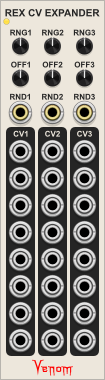
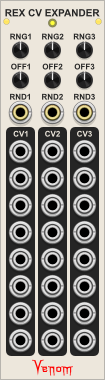
Allow Rhythm Explorer CV Expander on either side

diff --git a/src/RhythmExplorer.cpp b/src/RhythmExplorer.cpp
@@ -458,19 +458,32 @@ struct RhythmExplorer : VenomModule {
 
   void process(const ProcessArgs& args) override {
     Module* expanderCandidate = getRightExpander().module;
-    Module* expander = expanderCandidate 
-                    && !expanderCandidate->isBypassed() 
-                    && expanderCandidate->model == modelVenomREXCV 
-                     ? expanderCandidate 
-                     : NULL;
+    Module* rightExpander = expanderCandidate
+                         && !expanderCandidate->isBypassed()
+                         && expanderCandidate->model == modelVenomREXCV
+                         && !expanderCandidate->params[6].getValue()
+                          ? expanderCandidate
+                          : NULL;
+    expanderCandidate = getLeftExpander().module;
+    Module* leftExpander = expanderCandidate
+                        && !expanderCandidate->isBypassed()
+                        && expanderCandidate->model == modelVenomREXCV
+                        && expanderCandidate->params[6].getValue()
+                         ? expanderCandidate
+                         : NULL;
 
-
-    float cv1Range = expander ? expander->params[0].getValue()*2.32830629e-10f : 1.f,
-          cv1Offset = expander ? expander->params[1].getValue() : 0.f,
-          cv2Range = expander ? expander->params[2].getValue()*2.32830629e-10f : 1.f,
-          cv2Offset = expander ? expander->params[3].getValue() : 0.f,
-          cv3Range = expander ? expander->params[4].getValue()*2.32830629e-10f : 1.f,
-          cv3Offset = expander ? expander->params[5].getValue() : 0.f;
+    float rightCv1Range = rightExpander ? rightExpander->params[0].getValue()*2.32830629e-10f : 1.f,
+          rightCv1Offset = rightExpander ? rightExpander->params[1].getValue() : 0.f,
+          rightCv2Range = rightExpander ? rightExpander->params[2].getValue()*2.32830629e-10f : 1.f,
+          rightCv2Offset = rightExpander ? rightExpander->params[3].getValue() : 0.f,
+          rightCv3Range = rightExpander ? rightExpander->params[4].getValue()*2.32830629e-10f : 1.f,
+          rightCv3Offset = rightExpander ? rightExpander->params[5].getValue() : 0.f,
+          leftCv1Range = leftExpander ? leftExpander->params[0].getValue()*2.32830629e-10f : 1.f,
+          leftCv1Offset = leftExpander ? leftExpander->params[1].getValue() : 0.f,
+          leftCv2Range = leftExpander ? leftExpander->params[2].getValue()*2.32830629e-10f : 1.f,
+          leftCv2Offset = leftExpander ? leftExpander->params[3].getValue() : 0.f,
+          leftCv3Range = leftExpander ? leftExpander->params[4].getValue()*2.32830629e-10f : 1.f,
+          leftCv3Offset = leftExpander ? leftExpander->params[5].getValue() : 0.f;
 
     // Density polarity
     if ((params[POLAR_PARAM].getValue()==0) != isUni){
@@ -689,10 +702,14 @@ struct RhythmExplorer : VenomModule {
             0.f, 10.f
           );
 
-          float cv[3];
-          if (expander)
+          float leftCv[3],
+                rightCv[3];
+          if (leftExpander)
             for (int c=0; c<3; c++)
-              cv[c] = (rng() >> 32);
+              leftCv[c] = (rng() >> 32);
+          if (rightExpander)
+            for (int c=0; c<3; c++)
+              rightCv[c] = (rng() >> 32);
 
           if (rndFloat < threshold) {
             if ( !params[MUTE_CHANNEL_PARAM + si].getValue() && !params[MUTE_POLY_PARAM].getValue() && (channelMode == ALL_MODE || (channelMode == LINEAR_MODE && !linearChannelShadow) || (channelMode == OFFBEAT_MODE && !offbeatShadow))){
@@ -701,10 +718,15 @@ struct RhythmExplorer : VenomModule {
               outputs[GATE_POLY_OUTPUT].setVoltage(10.f, si);
               lights[DENSITY_LIGHT + si].setBrightness(1.f);
               densityLightOn[si] = true;
-              if (expander) {
-                expander->outputs[0+si].setVoltage(expander->inputs[0].getNormalPolyVoltage(cv[0]*cv1Range + cv1Offset, si));
-                expander->outputs[8+si].setVoltage(expander->inputs[1].getNormalPolyVoltage(cv[1]*cv2Range + cv2Offset, si));
-                expander->outputs[16+si].setVoltage(expander->inputs[2].getNormalPolyVoltage(cv[2]*cv3Range + cv3Offset, si));
+              if (leftExpander) {
+                leftExpander->outputs[0+si].setVoltage(leftExpander->inputs[0].getNormalPolyVoltage(leftCv[0]*leftCv1Range + leftCv1Offset, si));
+                leftExpander->outputs[8+si].setVoltage(leftExpander->inputs[1].getNormalPolyVoltage(leftCv[1]*leftCv2Range + leftCv2Offset, si));
+                leftExpander->outputs[16+si].setVoltage(leftExpander->inputs[2].getNormalPolyVoltage(leftCv[2]*leftCv3Range + leftCv3Offset, si));
+              }
+              if (rightExpander) {
+                rightExpander->outputs[0+si].setVoltage(rightExpander->inputs[0].getNormalPolyVoltage(rightCv[0]*rightCv1Range + rightCv1Offset, si));
+                rightExpander->outputs[8+si].setVoltage(rightExpander->inputs[1].getNormalPolyVoltage(rightCv[1]*rightCv2Range + rightCv2Offset, si));
+                rightExpander->outputs[16+si].setVoltage(rightExpander->inputs[2].getNormalPolyVoltage(rightCv[2]*rightCv3Range + rightCv3Offset, si));
               }
             }
             if (!params[MUTE_CHANNEL_PARAM + si].getValue() && !params[MUTE_POLY_PARAM].getValue() && (globalMode == ALL_MODE || (globalMode == LINEAR_MODE && !linearGlobalShadow) || (globalMode == OFFBEAT_MODE && !offbeatShadow))){
@@ -1015,10 +1037,15 @@ struct RhythmExplorerWidget : VenomWidget {
     ));
 
     Module* expander = module->rightExpander.module;
-    if (expander && expander->model == modelVenomREXCV)
-      menu->addChild(createMenuLabel("Rhythm Explorer CV expander connected"));
+    if (expander && expander->model == modelVenomREXCV && !expander->params[6].getValue())
+      menu->addChild(createMenuLabel("Right Rhythm Explorer CV expander connected"));
     else
-      menu->addChild(createMenuItem("Add Rhythm Explorer CV expander", "", [this](){addExpander(modelVenomREXCV,this);}));
+      menu->addChild(createMenuItem("Add right Rhythm Explorer CV expander", "", [this](){addExpander(modelVenomREXCV,this);}));
+    expander = module->leftExpander.module;
+    if (expander && expander->model == modelVenomREXCV && expander->params[6].getValue())
+      menu->addChild(createMenuLabel("Left Rhythm Explorer CV expander connected"));
+    else
+      menu->addChild(createMenuItem("Add left Rhythm Explorer CV expander", "", [this](){addExpander(modelVenomREXCV,this,true)->params[6].setValue(1);}));
 
     VenomWidget::appendContextMenu(menu);
   }

diff --git a/src/REXCV.cpp b/src/REXCV.cpp
@@ -15,6 +15,7 @@ struct REXCV : VenomModule {
     OFFSET2_PARAM,
     RANGE3_PARAM,
     OFFSET3_PARAM,
+    DIR_PARAM,
     PARAMS_LEN
   };
   enum InputId {
@@ -30,13 +31,21 @@ struct REXCV : VenomModule {
     OUTPUTS_LEN
   };
   enum LightId {
-    EXPAND_LIGHT,
+    ENUMS(LEFT_LIGHT,2),
+    ENUMS(RIGHT_LIGHT,2),
     LIGHTS_LEN
   };
 
   REXCV() {
     venomConfig(PARAMS_LEN, INPUTS_LEN, OUTPUTS_LEN, LIGHTS_LEN);
-    lights[EXPAND_LIGHT].setBrightness(false);
+    lights[LEFT_LIGHT].setBrightness(false);
+    lights[LEFT_LIGHT+1].setBrightness(false);
+    lights[RIGHT_LIGHT].setBrightness(false);
+    lights[RIGHT_LIGHT+1].setBrightness(false);
+
+    configLight(LEFT_LIGHT, "Left connection indicator");
+    configSwitch<FixedSwitchQuantity>(DIR_PARAM, 0.f, 1.f, 0.f, "Parent direction",{"Left","Right"});
+    configLight(RIGHT_LIGHT, "Left connection indicator");
 
     configParam(RANGE1_PARAM, 1.f, 10.f, 1.f, "Range1", " V");
     configParam(OFFSET1_PARAM, -10.f, 10.f, 0.f, "Offset1", " V");
@@ -62,31 +71,35 @@ struct REXCV : VenomModule {
     VenomModule::process(args);
   }
   
-  void onExpanderChange(const ExpanderChangeEvent& e) override {
-    if (!e.side) {
-      Module* left = getLeftExpander().module;
-      lights[EXPAND_LIGHT].setBrightness(left && left->model == modelVenomRhythmExplorer);
-    }  
-  }  
-
 };
 
 struct REXCVWidget : VenomWidget {
+
+  struct DirSwitch : GlowingSvgSwitchLockable {
+    DirSwitch() {
+      addFrame(Svg::load(asset::plugin(pluginInstance,"res/smallYellowButtonSwitch.svg")));
+      addFrame(Svg::load(asset::plugin(pluginInstance,"res/smallOrangeButtonSwitch.svg")));
+    }
+  };
+
   REXCVWidget(REXCV* module) {
     setModule(module);
     setVenomPanel("REXCV");
 
-    addChild(createLightCentered<SmallLight<YellowLight>>(Vec(6.5f, 21.5f), module, REXCV::EXPAND_LIGHT));
-    addParam(createLockableParamCentered<RoundTinyBlackKnobLockable>(Vec(20.5f, 46.f), module, REXCV::RANGE1_PARAM));
-    addParam(createLockableParamCentered<RoundTinyBlackKnobLockable>(Vec(20.5f, 78.f), module, REXCV::OFFSET1_PARAM));
+    addChild(createLightCentered<SmallLight<YellowRedLight<>>>(Vec(6.5f, 21.5f), module, REXCV::LEFT_LIGHT));
+    addParam(createLockableParamCentered<DirSwitch>(Vec(52.5f,23.f), module, REXCV::DIR_PARAM));
+    addChild(createLightCentered<SmallLight<YellowRedLight<>>>(Vec(98.5f, 21.5f), module, REXCV::RIGHT_LIGHT));
+
+    addParam(createLockableParamCentered<RoundTinyBlackKnobLockable>(Vec(20.5f, 50.f), module, REXCV::RANGE1_PARAM));
+    addParam(createLockableParamCentered<RoundTinyBlackKnobLockable>(Vec(20.5f, 80.f), module, REXCV::OFFSET1_PARAM));
     addInput(createInputCentered<PolyPort>(Vec(20.5f, 112.5f), module, REXCV::RANDOM1_INPUT));
 
-    addParam(createLockableParamCentered<RoundTinyBlackKnobLockable>(Vec(52.5f, 46.f), module, REXCV::RANGE2_PARAM));
-    addParam(createLockableParamCentered<RoundTinyBlackKnobLockable>(Vec(52.5f, 78.f), module, REXCV::OFFSET2_PARAM));
+    addParam(createLockableParamCentered<RoundTinyBlackKnobLockable>(Vec(52.5f, 50.f), module, REXCV::RANGE2_PARAM));
+    addParam(createLockableParamCentered<RoundTinyBlackKnobLockable>(Vec(52.5f, 80.f), module, REXCV::OFFSET2_PARAM));
     addInput(createInputCentered<PolyPort>(Vec(52.5f, 112.5f), module, REXCV::RANDOM2_INPUT));
 
-    addParam(createLockableParamCentered<RoundTinyBlackKnobLockable>(Vec(84.5f, 46.f), module, REXCV::RANGE3_PARAM));
-    addParam(createLockableParamCentered<RoundTinyBlackKnobLockable>(Vec(84.5f, 78.f), module, REXCV::OFFSET3_PARAM));
+    addParam(createLockableParamCentered<RoundTinyBlackKnobLockable>(Vec(84.5f, 50.f), module, REXCV::RANGE3_PARAM));
+    addParam(createLockableParamCentered<RoundTinyBlackKnobLockable>(Vec(84.5f, 80.f), module, REXCV::OFFSET3_PARAM));
     addInput(createInputCentered<PolyPort>(Vec(84.5f, 112.5f), module, REXCV::RANDOM3_INPUT));
 
     for (int i=0; i<8; i++){
@@ -95,6 +108,29 @@ struct REXCVWidget : VenomWidget {
       addOutput(createOutputCentered<MonoPort>(Vec(84.5f, 151.5f+i*27.f), module, REXCV::CV3_OUTPUT+i));
     }
   }
+  
+  void step() override {
+    VenomWidget::step();
+    if (module) {
+      if (module->params[REXCV::DIR_PARAM].getValue()) { // right parent
+        Module *parent = module->getRightExpander().module;
+        bool connected = parent && parent->model == modelVenomRhythmExplorer;
+        module->lights[REXCV::RIGHT_LIGHT].setBrightness(connected);
+        module->lights[REXCV::RIGHT_LIGHT+1].setBrightness(!connected);
+        module->lights[REXCV::LEFT_LIGHT].setBrightness(0);
+        module->lights[REXCV::LEFT_LIGHT+1].setBrightness(0);
+      }
+      else { // left parent
+        Module *parent = module->getLeftExpander().module;
+        bool connected = parent && parent->model == modelVenomRhythmExplorer;
+        module->lights[REXCV::LEFT_LIGHT].setBrightness(connected);
+        module->lights[REXCV::LEFT_LIGHT+1].setBrightness(!connected);
+        module->lights[REXCV::RIGHT_LIGHT].setBrightness(0);
+        module->lights[REXCV::RIGHT_LIGHT+1].setBrightness(0);
+      }
+    }
+  }
+  
 };
 
 }

diff --git a/src/Venom.hpp b/src/Venom.hpp
@@ -503,7 +503,7 @@ struct VenomWidget : ModuleWidget {
     Widget::step();
   }
   
-  void addExpander( Model* model, ModuleWidget* parentModWidget, bool left = false ) {
+  Module*  addExpander( Model* model, ModuleWidget* parentModWidget, bool left = false ) {
     Module* module = model->createModule();
     APP->engine->addModule(module);
     ModuleWidget* modWidget = model->createModuleWidget(module);
@@ -513,6 +513,7 @@ struct VenomWidget : ModuleWidget {
     h->name = "create "+model->name;
     h->setModule(modWidget);
     APP->history->push(h);
+    return module;
   }  
 
 };
